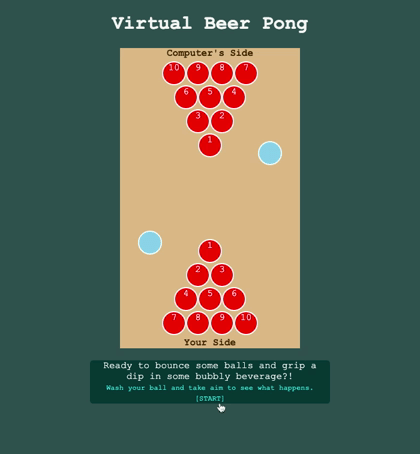
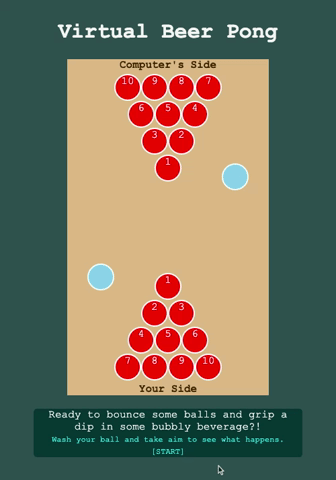
adds media query styles for beerpong

diff --git a/projects.html b/projects.html
@@ -57,7 +57,7 @@
           <div class="bpImages">
             <!-- <img class="bpImg" src="./images/projects/beerpong-preview.png"  alt="Preview of Beerpong Game"> -->
             <img class="bpStatic" src="./images/projects/VirtualBeerPong.png">
-            <img class="bpGif" src="https://i.imgur.com/TJBVUH5.gif">
+            <img class="bpGif" src="https://i.imgur.com/yZ7NlNM.gif">
           </div>
           <div class="bpLabel ubuntu">hover for animation</div>
         </div>

diff --git a/styles/style.css b/styles/style.css
@@ -845,9 +845,6 @@ span.credit-text{
     width: 400px;
     padding: 3%;
   }
-  /* .bpStatic, .bpGif{
-
-  } */
 
 }
 
@@ -895,6 +892,9 @@ span.credit-text{
   .colStatic, .colGif{
     width: 300px;
   }
+    .bpStatic, .bpGif{
+    width: 250px;
+  }
 }
 
 @media screen and (max-width: 415px){
@@ -906,6 +906,9 @@ span.credit-text{
   }
   .asddcLabel{
     font-size:  .8rem;
+  }
+  .bpStatic, .bpGif{
+    width: 200px;
   }
 }
 
